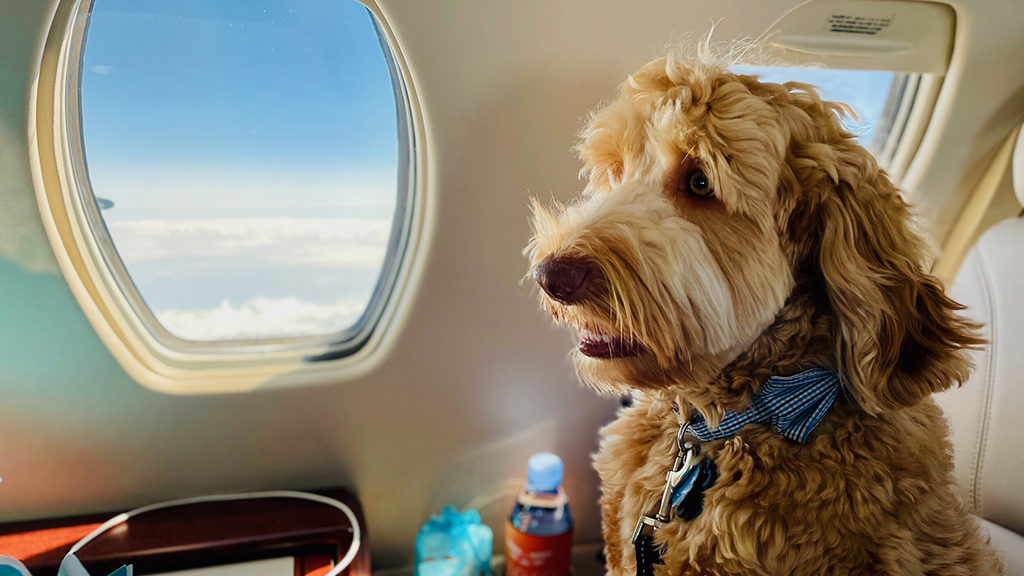
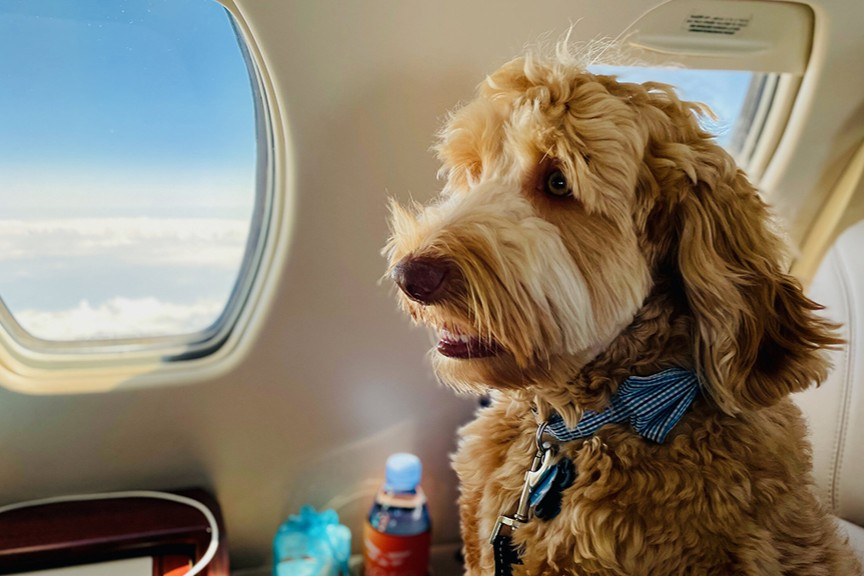
resized image index page

diff --git a/index.html b/index.html
@@ -129,7 +129,7 @@ GO TO COMMUNITY </p>
     <div class="col-4">
       <br>
 		 <div class="card" style="width: 18rem;">
-  <img src="images/car/dogphoto1.jpg" class="card-img-top" alt="go to car">
+  <img src="images/car/carphoto2.jpg" class="card-img-top" alt="go to car">
   <div class="card-body">
     <h5 class="card-title">TRAVEL BY CAR</h5>
     <a href="car.html" class="btn btn-primary stretched-link">CHECK OUT</a>
@@ -139,7 +139,7 @@ GO TO COMMUNITY </p>
     <div class="col-4">
 		<br>
 			  <div class="card" style="width: 18rem;">
-  <img src="images/plane/plane-dog.jpg" class="card-img-top" alt="...">
+  <img src="images/plane/plane-dog3.jpeg" class="card-img-top" alt="...">
   <div class="card-body">
     <h5 class="card-title">TRAVEL BY PLANE</h5>
     <a href="plane.html" class="btn btn-primary stretched-link">CHECK OUT</a>
